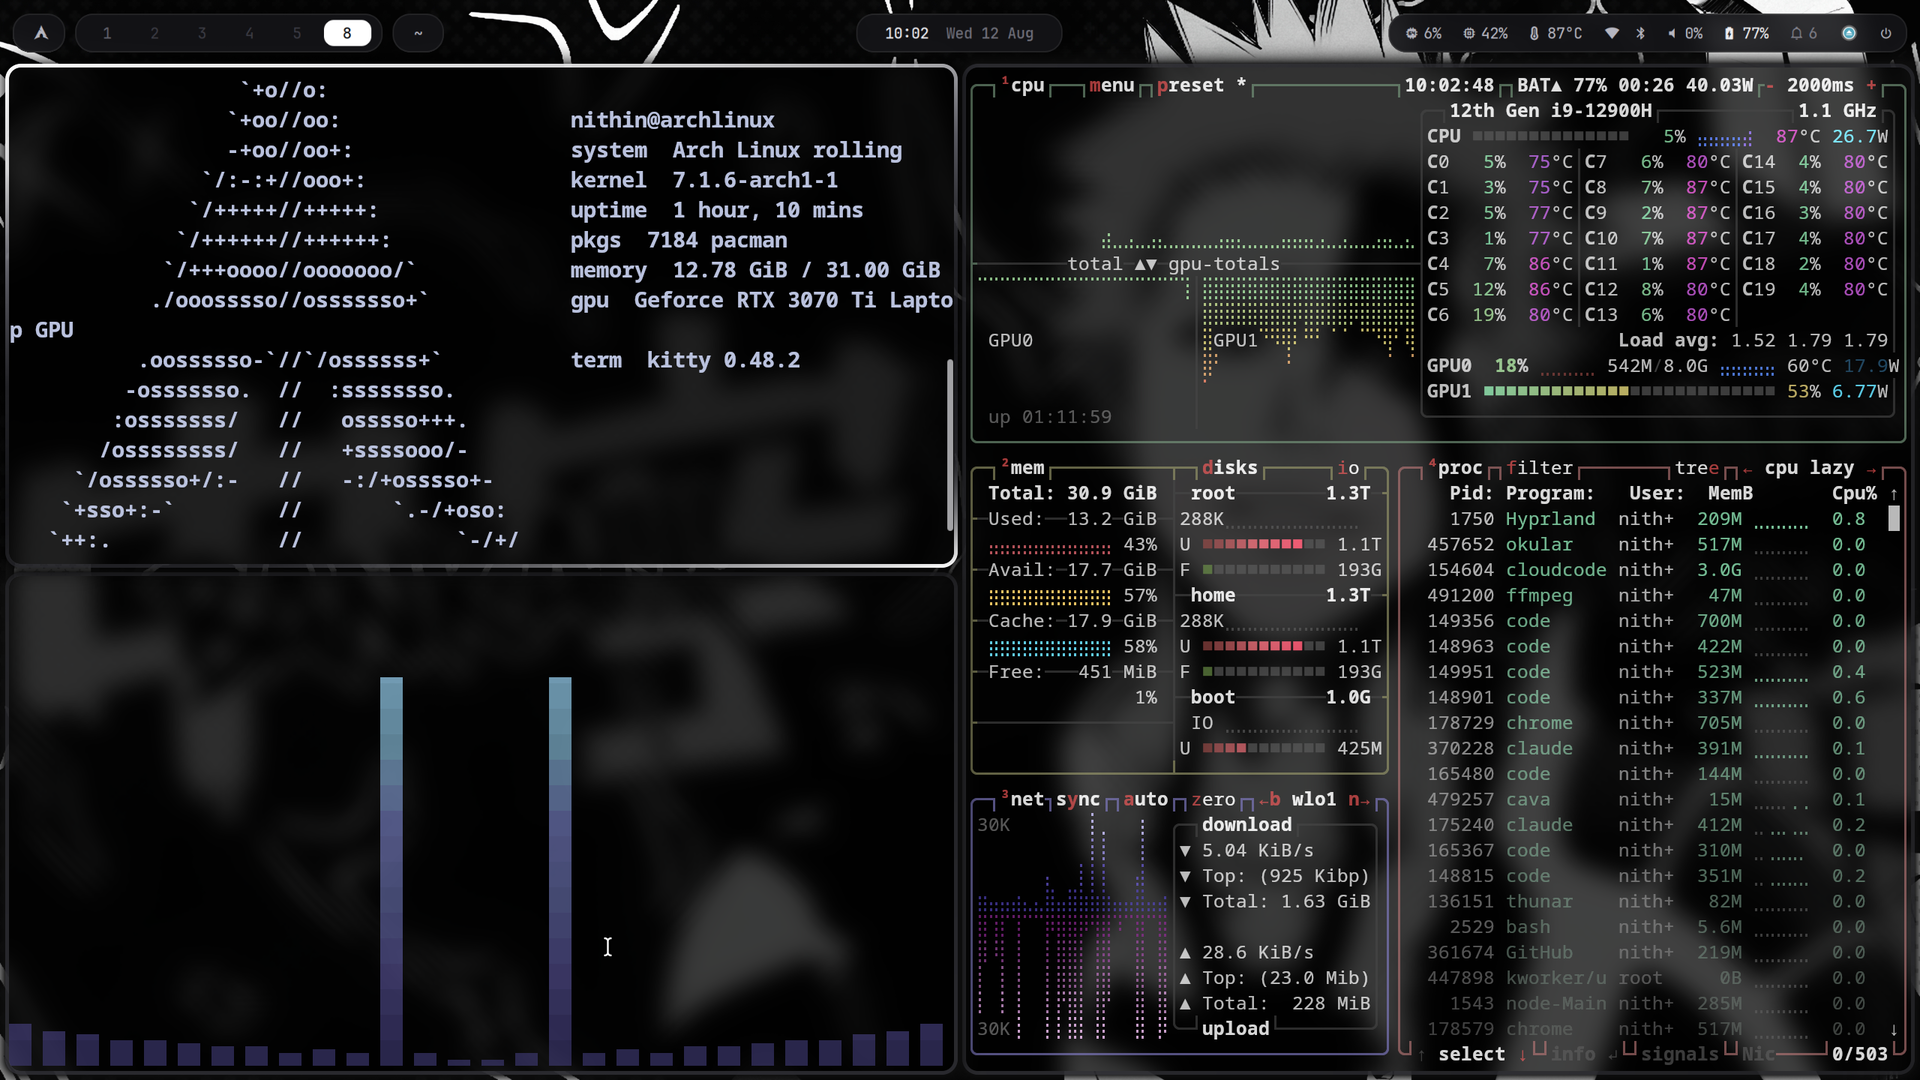
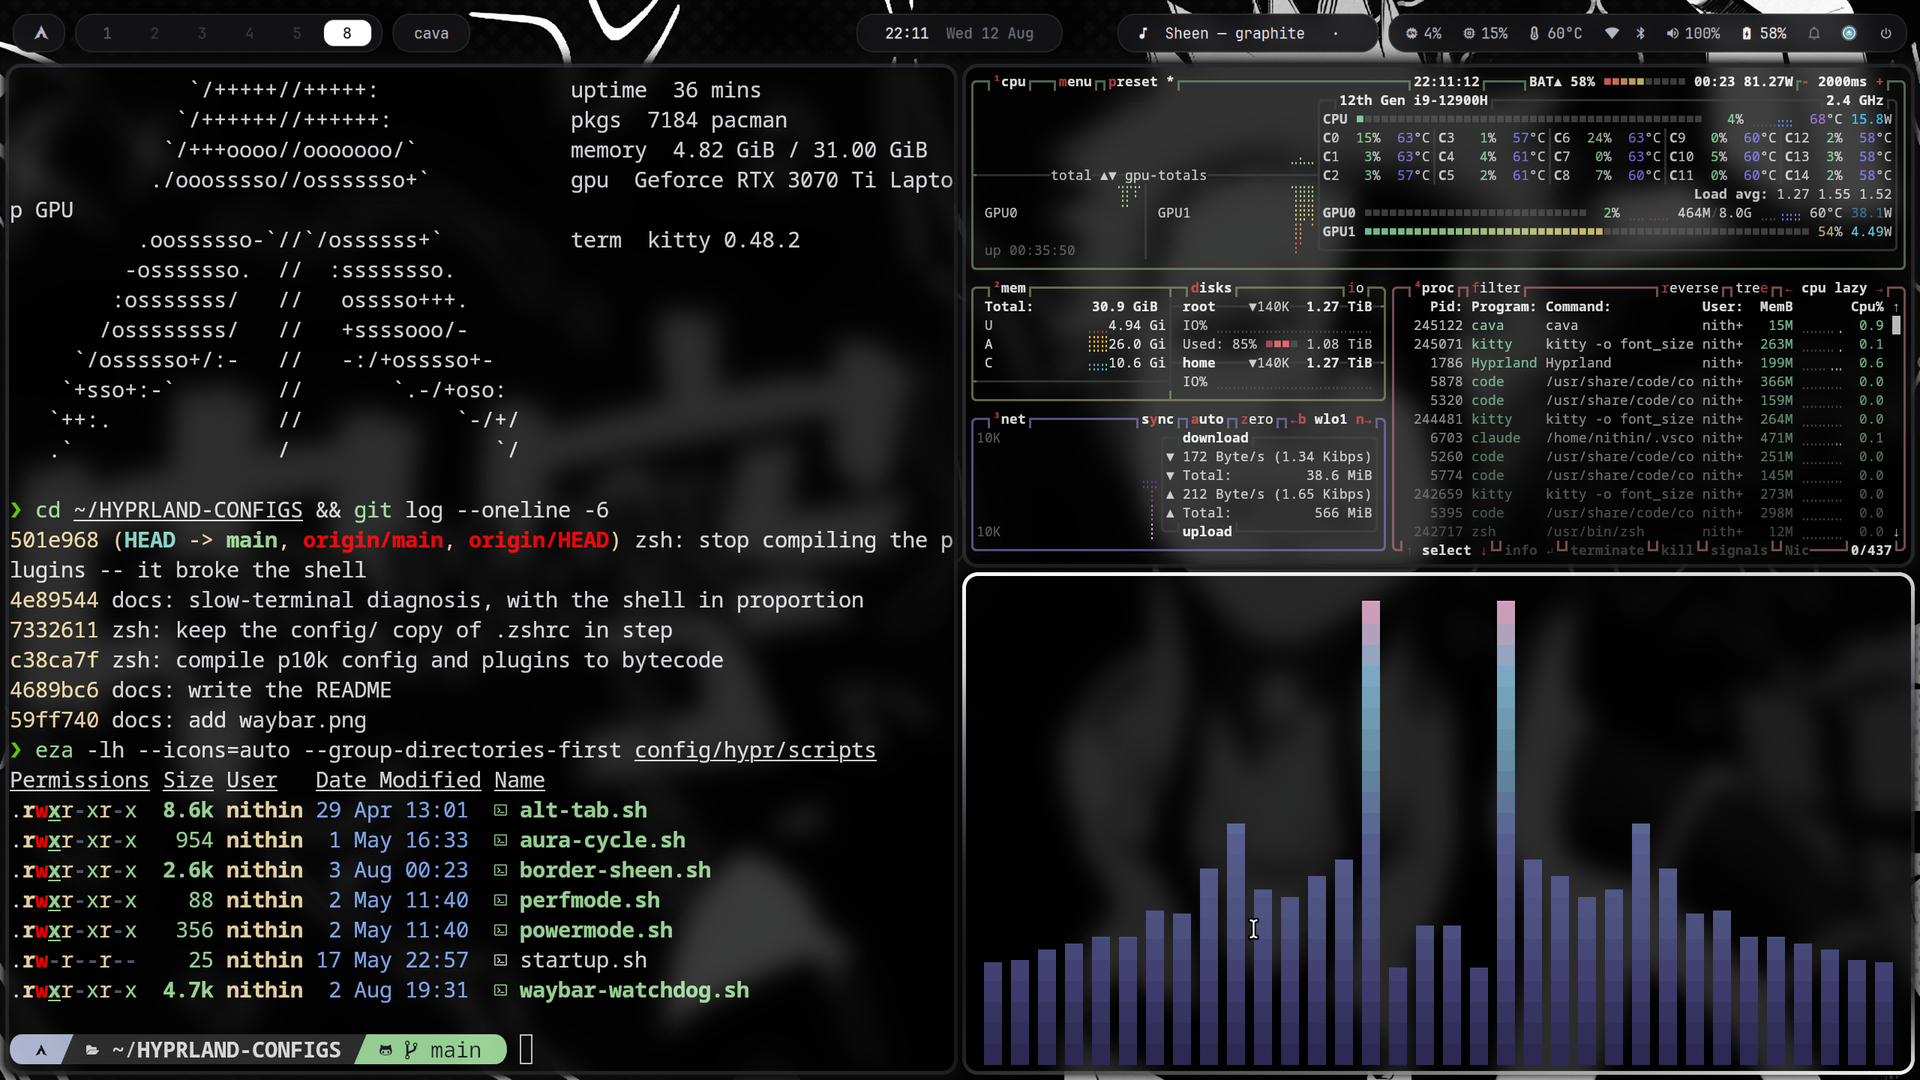
docs: reshoot the screenshots
The old hero was a flat tile of three terminals and did not show the parts
of this rice that are actually its own. Replaced with four:

  dashboard.png  the eww slab with the album disc mid-spin -- the widget
                 that took the most work and was not pictured at all
  terminal.png   kitty with a real prompt, a git log and eza, not just a
                 fetch card on an empty screen
  desktop.png    the tiled layout, btop now sized to clear its 80x24
                 minimum instead of printing 'terminal size too small'
  toolbox.png    the BlackArch launcher, 4309 tools categorised

The wifi SSID visible on the dashboard's network chip is blurred; OCR of
the region confirms it is no longer readable. Everything else was OCR'd for
credentials, paths and personal data before committing.

diff --git a/README.md b/README.md
@@ -12,7 +12,7 @@ hand‑written notification theme, an eww dashboard, and ROG laptop hardware con
 [![Wayland](https://img.shields.io/badge/Wayland-FFBC00?style=for-the-badge&logo=wayland&logoColor=black)](https://wayland.freedesktop.org)
 [![License](https://img.shields.io/badge/License-MIT-9b9ba4?style=for-the-badge)](LICENSE)
 
-<img src="assets/desktop.png" alt="The desktop: fastfetch, btop and cava tiled under the graphite Waybar" width="100%">
+<img src="assets/dashboard.png" alt="The eww dashboard open over the desktop: calendar, todo board, system meters and a spinning album disc, with cava below" width="100%">
 
 </div>
 
@@ -67,20 +67,53 @@ value.
 
 ## Gallery
 
-**The bar** — launcher · workspaces · window title | clock | now‑playing · status group
+### The dashboard
+
+Dropped from the clock with `SUPER` `D`. Greeting, volume and brightness
+sliders, network and bluetooth chips, CPU/RAM/disk meters, a month calendar, a
+todo board — and an album disc that actually spins, rendered frame by frame
+from the current track's cover art by
+[`disc_spin.py`](config/eww/scripts/disc_spin.py).
+
+<img src="assets/dashboard.png" alt="The eww dashboard: greeting, sliders, system meters, calendar, todo board and a spinning album disc" width="100%">
+
+### The terminal
+
+kitty at 82 % opacity, zsh with Powerlevel10k, a graphite fastfetch card on
+every new shell.
+
+<img src="assets/terminal.png" alt="kitty running fastfetch, a git log and eza with icons" width="100%">
+
+### The desktop
+
+Terminal, btop and cava tiled under the bar. Gaps are 2/4 and the border is
+3px — the focused window is the only bright edge on screen.
+
+<img src="assets/desktop.png" alt="Terminal, btop and cava tiled under the graphite Waybar" width="100%">
+
+### The BlackArch toolbox
+
+A two‑level rofi menu over an index of **4309 runnable tools**, categorised.
+`ALT` `S`. A tool with a GUI opens its GUI; a CLI tool opens a themed terminal
+showing its usage and flags before dropping into a shell scoped to it.
+Red‑on‑black on purpose — the one part of the desktop that is allowed colour,
+because it is a different mode of working.
+
+<img src="assets/toolbox.png" alt="The BlackArch launcher: a categorised rofi menu over 4309 tools" width="100%">
+
+### The bar
+
+launcher · workspaces · window title | clock | now‑playing · status group
 
 <img src="assets/waybar.png" alt="The graphite Waybar" width="100%">
 
 <table>
 <tr>
-<td width="60%"><img src="assets/launcher.png" alt="rofi application launcher"></td>
-<td width="40%"><img src="assets/notification.png" alt="A graphite dunst notification card"><br><br>
-<sub><b>Notifications</b> — dunst, restyled as frosted cards. The compositor
-supplies the blur and the slide‑in; dunst itself can't animate.</sub></td>
-</tr>
-<tr>
-<td><sub><b>Launcher</b> — rofi, HyDE <code>style_2</code>, blurred layer surface.</sub></td>
-<td></td>
+<td width="46%"><img src="assets/notification.png" alt="A graphite dunst notification card"></td>
+<td width="54%"><sub><b>Notifications</b> — dunst, restyled as frosted cards
+that slide in from the right. dunst cannot animate and cannot blur, so both
+come from compositor <code>layerrule</code>s in
+<a href="config/hypr/windowrules.conf">windowrules.conf</a>.</sub></td>
 </tr>
 </table>
 
